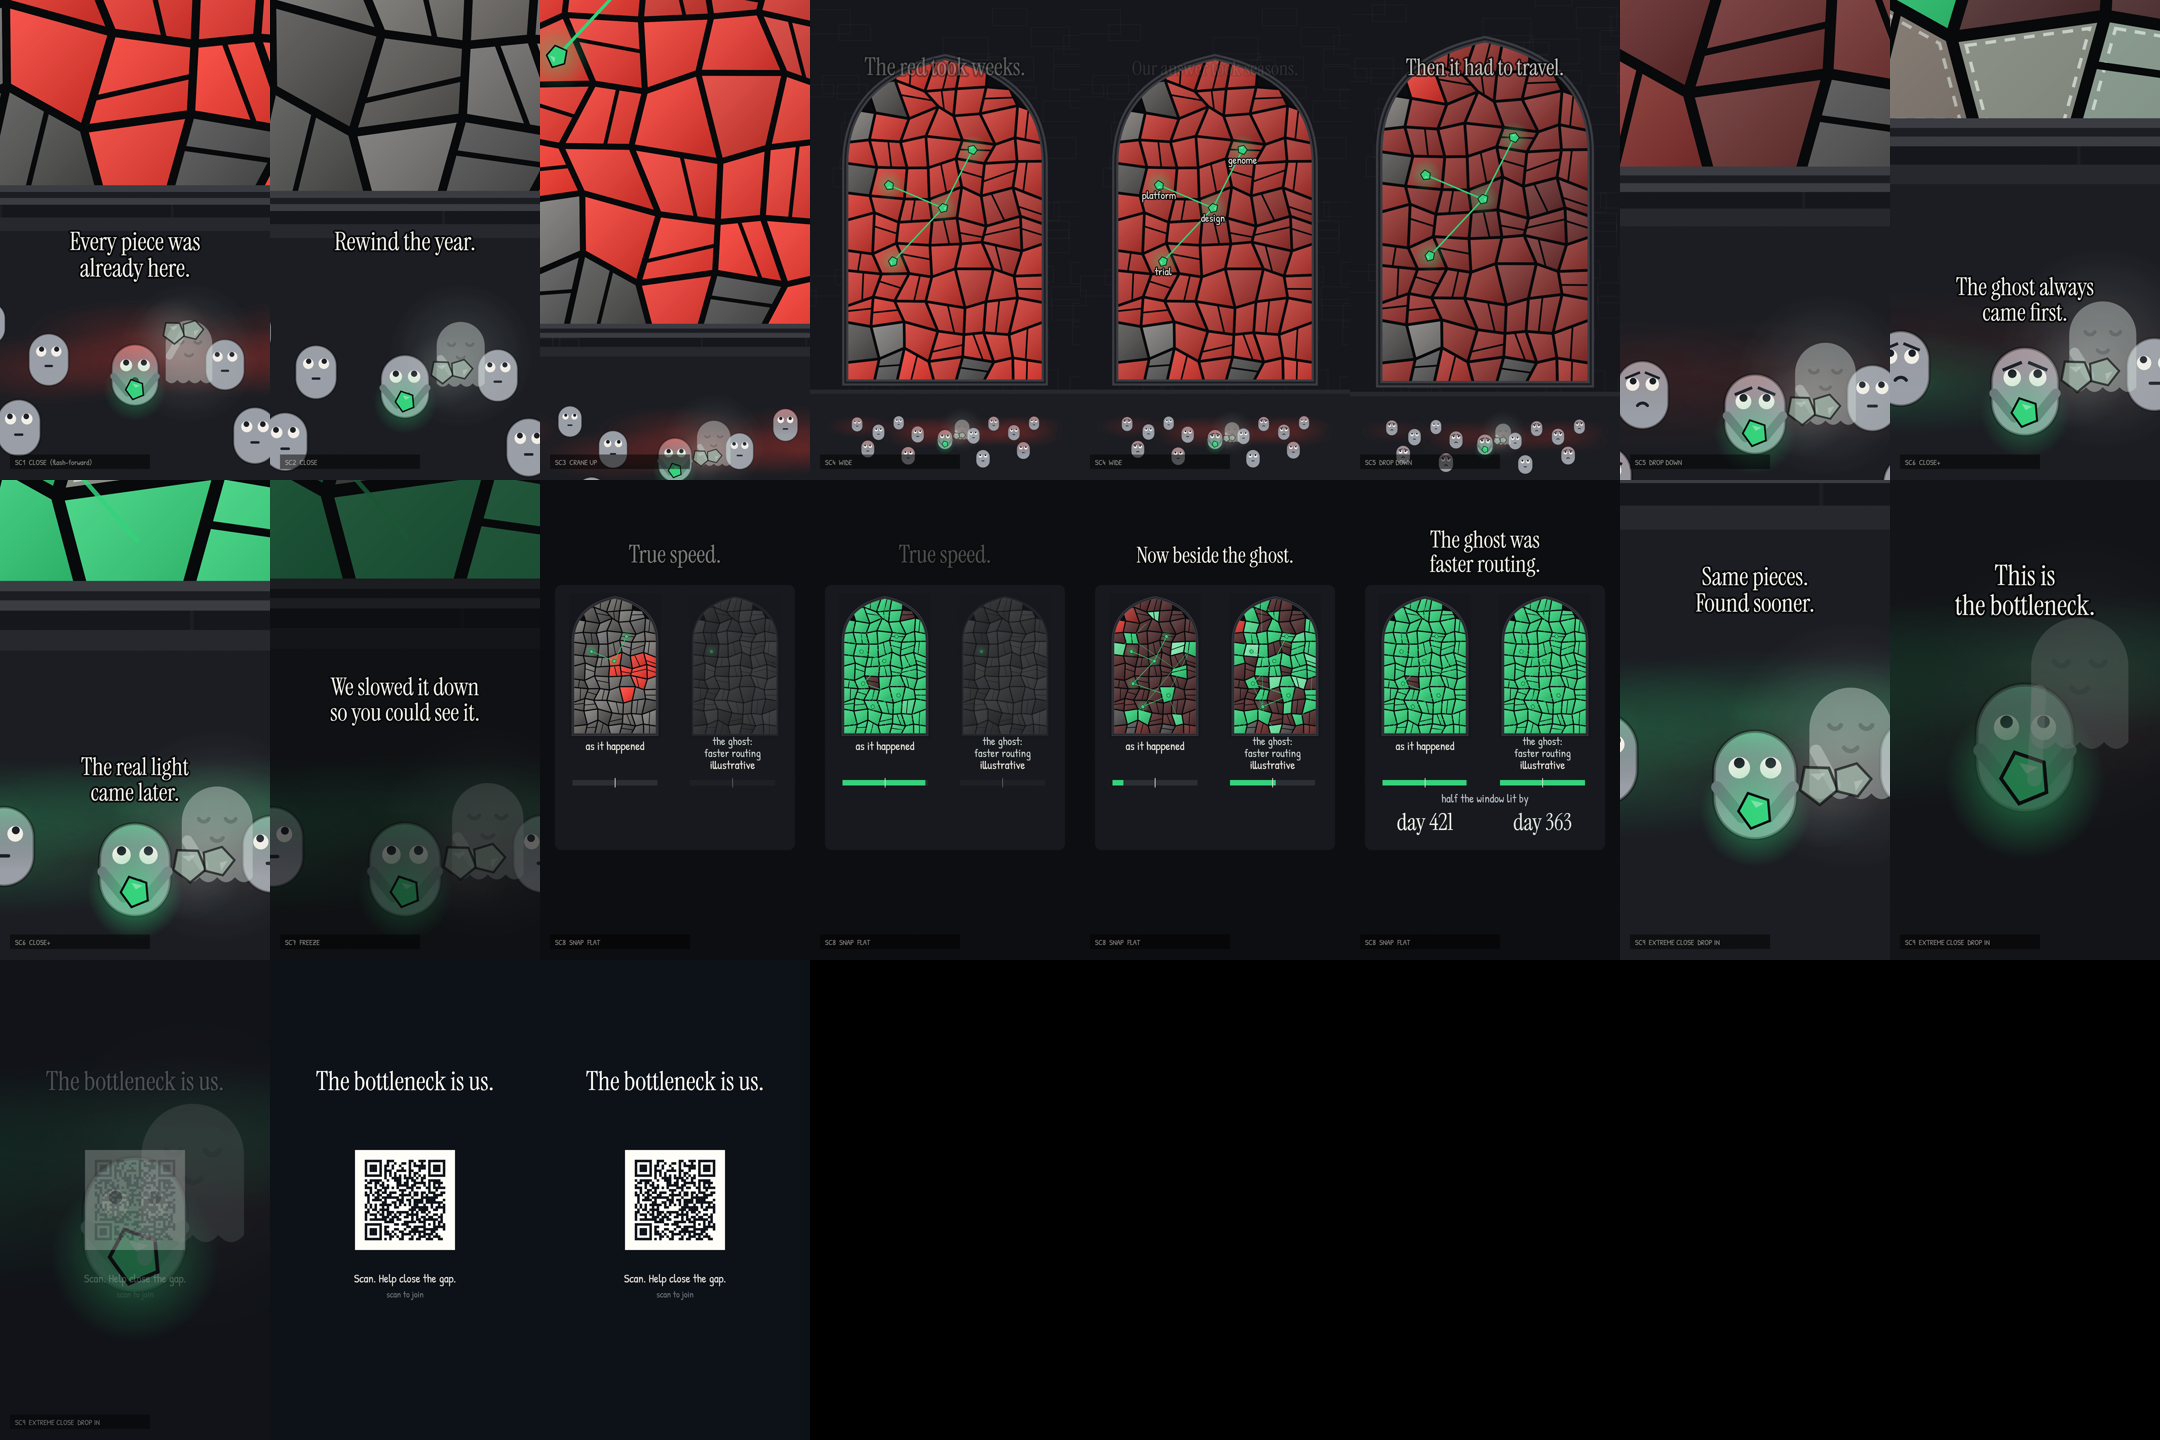
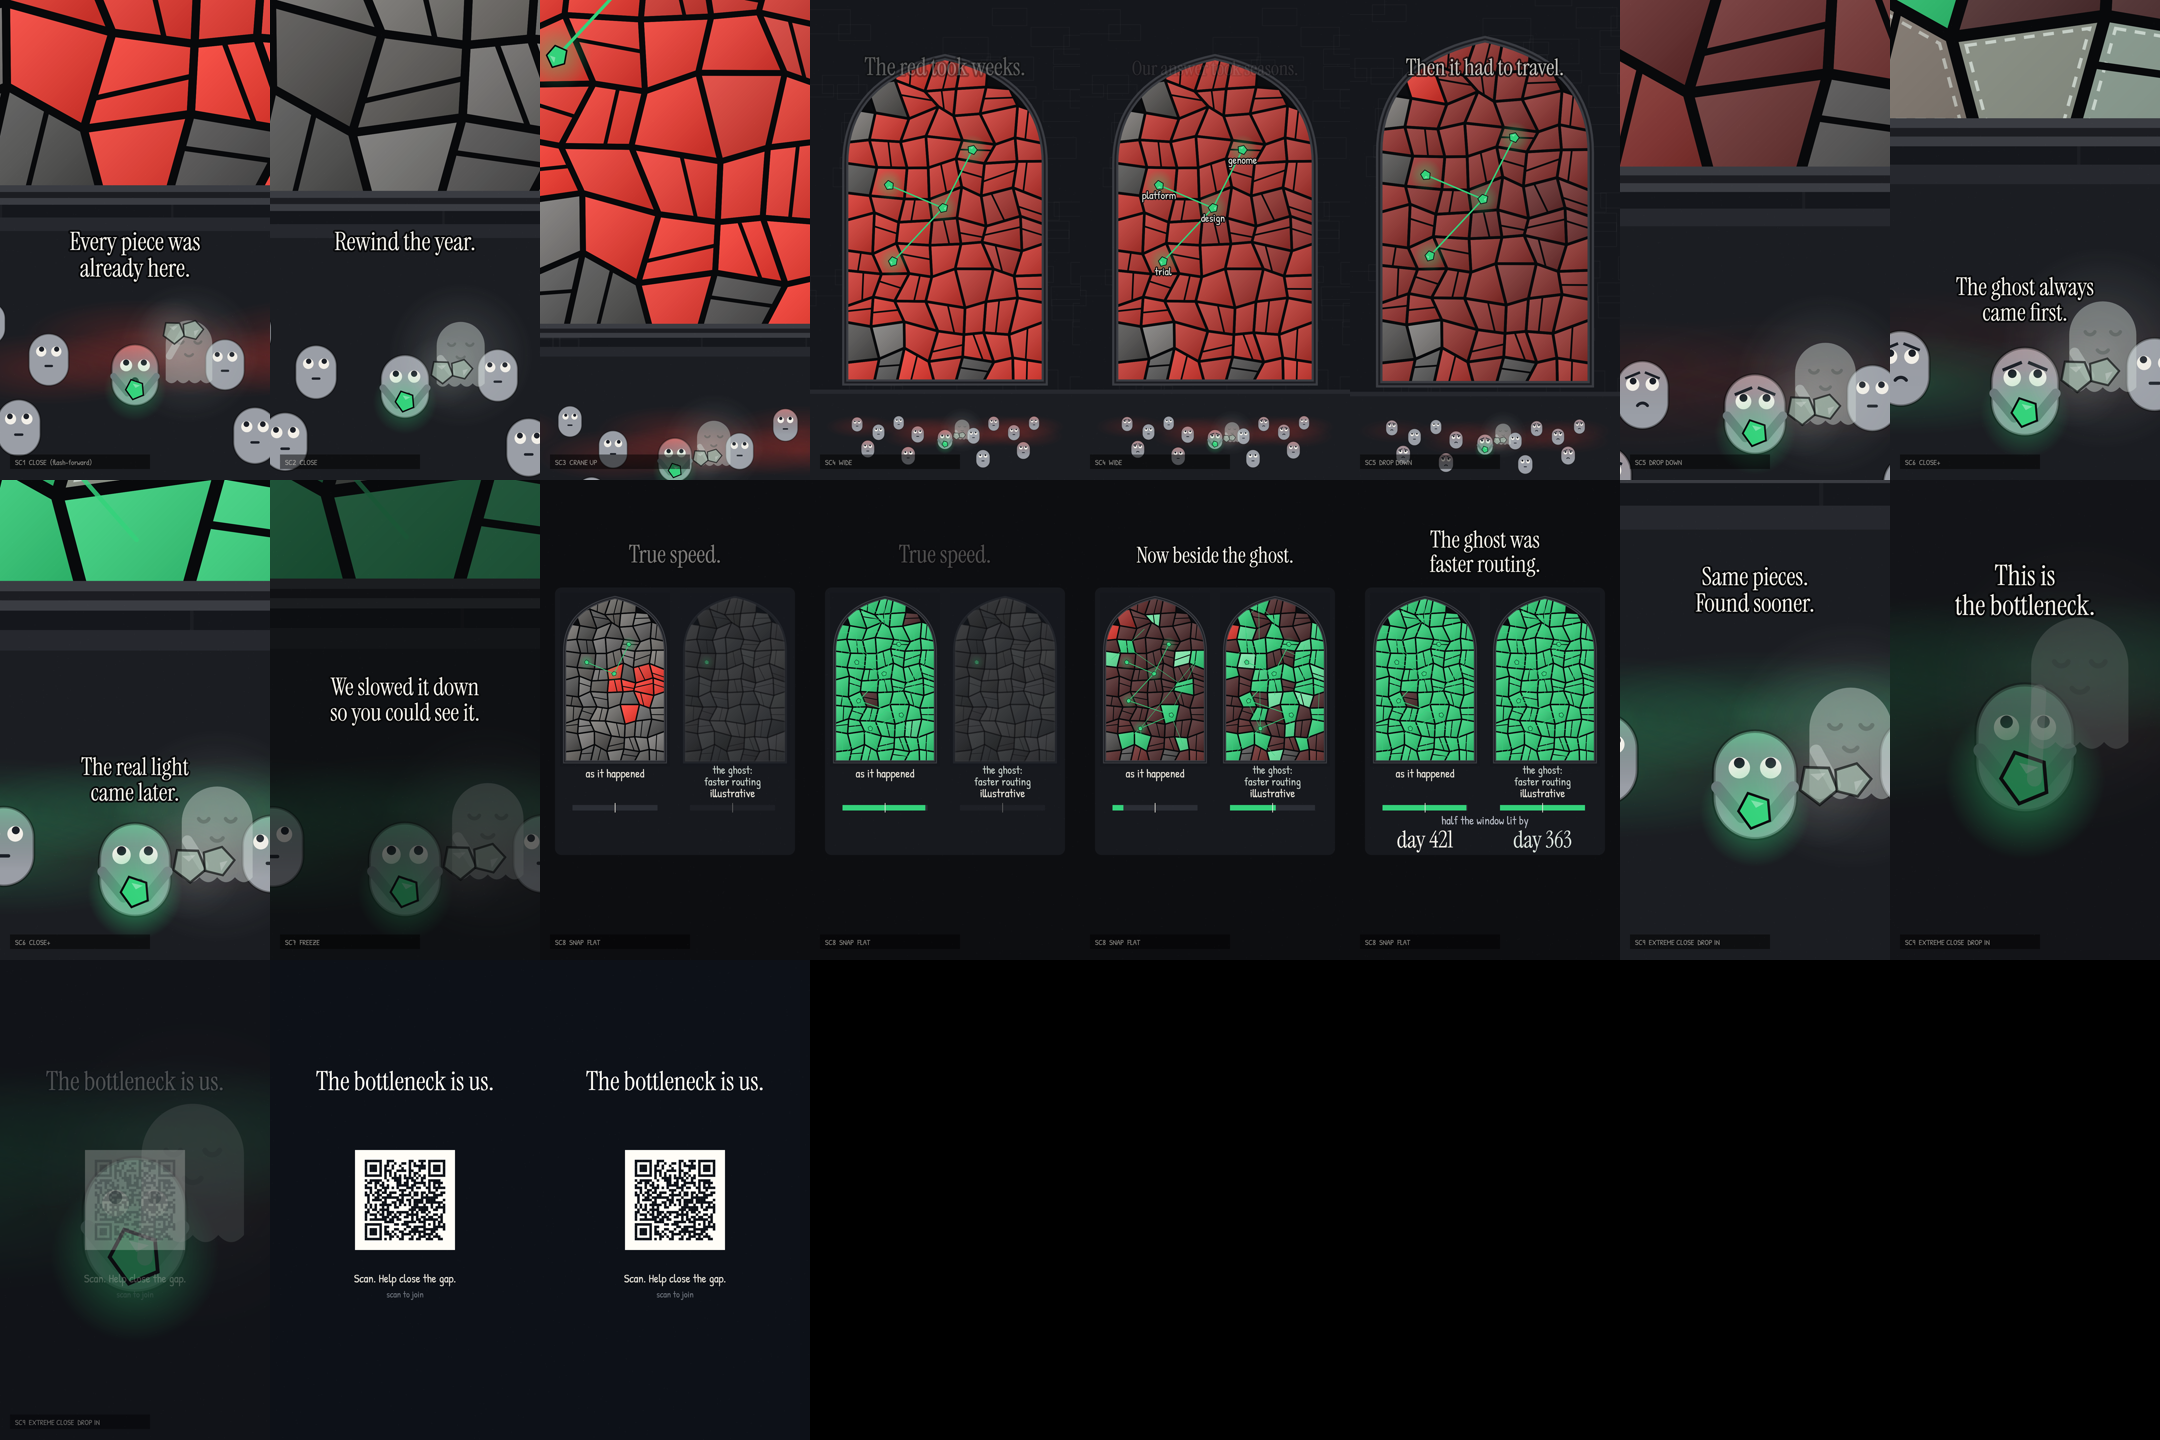
WIP: in-progress animatics
Claude-Session: https://claude.ai/code/session_01X5KAVDy6XpN4shueAifJh7

Changed region(s): [[0.2481, 0.4062, 0.7444, 0.5938]]

diff --git a/orchestration-videos/scenes/ghost-rewind-covid.js b/orchestration-videos/scenes/ghost-rewind-covid.js
@@ -236,30 +236,30 @@ function makeScene(SERIF, HAND) {
 
   // ---------- snap panels ----------
   const SNAPD = 560;
-  function miniWindow(ctx, cx, top, d, mode) { const sc = 0.4; ctx.save(); ctx.translate(cx, top); ctx.scale(sc, sc); ctx.translate(-540, -WTOP);
+  function miniWindow(ctx, cx, top, d, mode) { const sc = 0.48; ctx.save(); ctx.translate(cx, top); ctx.scale(sc, sc); ctx.translate(-540, -WTOP);
     ctx.fillStyle = STONE; ctx.fillRect(WX0 - 40, WTOP - 40, WX1 - WX0 + 80, WBOT - WTOP + 80); drawWindow(ctx, d, { mode, ghost: false, links: true }); ctx.restore(); }
   function share(d, key) { return panes.filter(p => d >= p[key]).length / N; }
   function snap(ctx, t) {
     ctx.fillStyle = '#0d0e11'; ctx.fillRect(0, 0, 1080, 1920);
     const a = L.sm(19.8, 20.2, t);
-    ctx.save(); ctx.globalAlpha = a; ctx.fillStyle = '#17191e'; ctx.beginPath(); ctx.roundRect(60, 420, 960, 1060, 26); ctx.fill(); ctx.restore();
+    ctx.save(); ctx.globalAlpha = a; ctx.fillStyle = '#17191e'; ctx.beginPath(); ctx.roundRect(60, 430, 960, 1070, 26); ctx.fill(); ctx.restore();
     const dA = t < 22.6 ? SNAPD * L.clamp((t - 20.3) / 2.2, 0, 1) : SNAPD * L.clamp((t - 22.9) / 2.2, 0, 1);
     const dB = SNAPD * L.clamp((t - 22.9) / 2.2, 0, 1);
     ctx.save(); ctx.globalAlpha = a;
     miniWindow(ctx, 300, 470, dA, 'human');
     ctx.globalAlpha = a * (t < 22.6 ? 0.35 : 1); miniWindow(ctx, 780, 470, dB, 'ai'); ctx.restore();
     // labels
-    L.label(ctx, 'as it happened', 300, 1080, 46, { alpha: a, col: '#e8e4da' });
-    L.label(ctx, 'the ghost:', 770, 1060, 44, { alpha: a, col: '#c9d4cd' });
-    L.label(ctx, 'faster routing', 770, 1108, 44, { alpha: a, col: '#c9d4cd' });
-    L.label(ctx, 'illustrative', 770, 1156, 46, { alpha: a, col: '#e8e4da' });
+    L.label(ctx, 'as it happened', 300, 1190, 46, { alpha: a, col: '#e8e4da' });
+    L.label(ctx, 'the ghost:', 770, 1175, 44, { alpha: a, col: '#c9d4cd' });
+    L.label(ctx, 'faster routing', 770, 1222, 44, { alpha: a, col: '#c9d4cd' });
+    L.label(ctx, 'illustrative', 770, 1269, 46, { alpha: a, col: '#e8e4da' });
     // lit-share bars
     [[300, dA, 'gDay', 1], [770, dB, 'aiDay', t < 22.6 ? 0.35 : 1]].forEach(([x, d, key, al]) => { ctx.save(); ctx.globalAlpha = a * al;
-      ctx.fillStyle = '#2b2e35'; ctx.fillRect(x - 170, 1200, 340, 22); ctx.fillStyle = GREEN; ctx.fillRect(x - 170, 1200, 340 * share(d, key), 22);
-      ctx.fillStyle = '#e8e4da'; ctx.fillRect(x - 1, 1192, 3, 38); ctx.restore(); });
+      ctx.fillStyle = '#2b2e35'; ctx.fillRect(x - 170, 1300, 340, 22); ctx.fillStyle = GREEN; ctx.fillRect(x - 170, 1300, 340 * share(d, key), 22);
+      ctx.fillStyle = '#e8e4da'; ctx.fillRect(x - 1, 1292, 3, 38); ctx.restore(); });
     const na = L.sm(25.1, 25.5, t);
-    L.label(ctx, 'half the window lit by', 540, 1290, 46, { alpha: na, col: '#b9bec8' });
-    ctx.save(); ctx.globalAlpha = na; ctx.textAlign = 'center'; ctx.font = `92px "${SERIF}"`; ctx.fillStyle = '#f4f1ea'; ctx.fillText('day 421', 300, 1400); ctx.fillStyle = '#dfe8e2'; ctx.fillText('day 363', 770, 1400); ctx.restore();
+    L.label(ctx, 'half the window lit by', 540, 1378, 46, { alpha: na, col: '#b9bec8' });
+    ctx.save(); ctx.globalAlpha = na; ctx.textAlign = 'center'; ctx.font = `92px "${SERIF}"`; ctx.fillStyle = '#f4f1ea'; ctx.fillText('day 421', 300, 1470); ctx.fillStyle = '#dfe8e2'; ctx.fillText('day 363', 770, 1470); ctx.restore();
     card(ctx, ['True speed.'], 330, 96, fade(t, 20.3, 22.5));
     card(ctx, ['Now beside the ghost.'], 330, 86, fade(t, 22.7, 24.9));
     card(ctx, ['The ghost was', 'faster routing.'], 270, 92, L.sm(25.0, 25.4, t));
